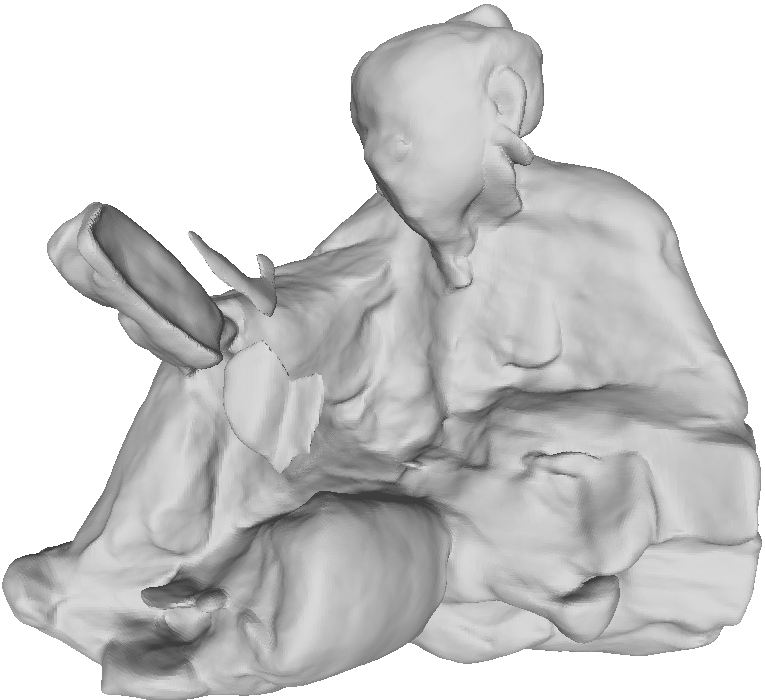
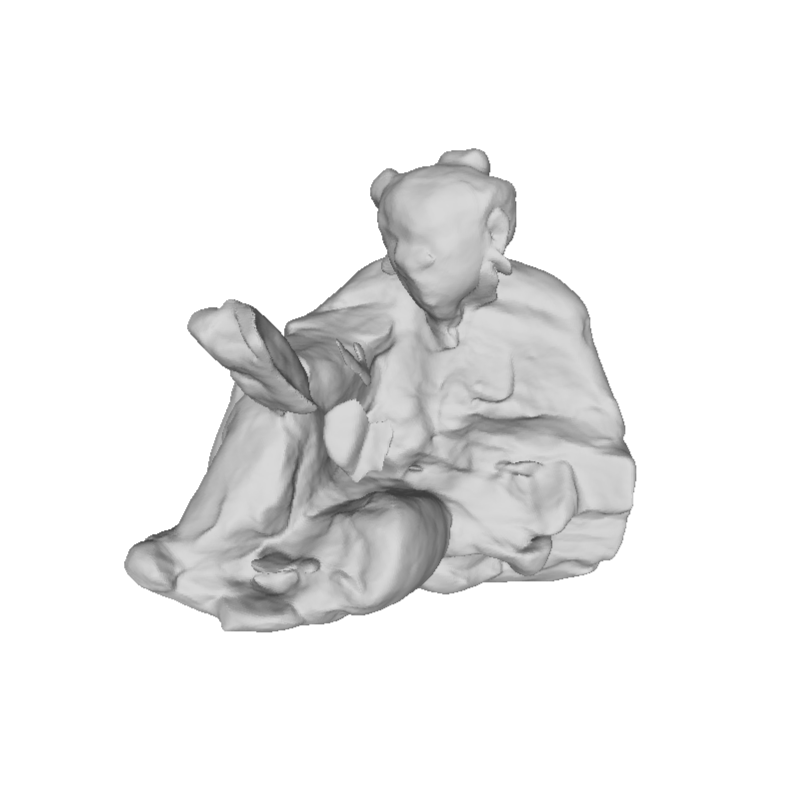
minor changes

diff --git a/index.html b/index.html
@@ -212,7 +212,7 @@ thin structures.
 
         <!-- Comparisons Images -->
         <!-- <hr style="border-top: 3px double;"> -->
-        <h6>Ours (mono-illumination) vs Neus (mono-illumination) vs RNb-NeuS (multi-illumination)</h6>
+        <h6>Ours (mono-illumination) vs Super Normal (multi-illumination) vs RNb-NeuS (multi-illumination)</h6>
         
         <!-- <div class="container;" style=" padding-bottom: 5px; font-size: 0;">
             <ul class="nav nav-tabs nav-fill nav-justified" style="font-size: 16px;" id="modelChoice">
@@ -291,7 +291,7 @@ thin structures.
         </ul>
             <div class="bordered-container">
             <div class="b-dics" style="width: 70%; font-weight: 600; margin: 0 auto;">
-                <img src="./assets/snnir/images/cmp_diff_views_methods/pot2/neus_2.png" alt="NeuS">
+                <img src="./assets/snnir/images/cmp_diff_views_methods/pot2/sn_2.png" alt="Super Normal">
                 <img src="./assets/snnir/images/cmp_diff_views_methods/pot2/ours_2.png" alt="Ours">
                 <img src="./assets/snnir/images/cmp_diff_views_methods/pot2/rnb_neus_2.png" alt="RNb-NeuS">
             </div>

diff --git a/js/event_handler.js b/js/event_handler.js
@@ -67,7 +67,7 @@ document.addEventListener('DOMContentLoaded', domReady);
                 }
                 switch (i) {
                     case 0:
-                        image.src = image.src + '/neus_';
+                        image.src = image.src + '/sn_';
                         break;
                     case 1:
                         image.src = image.src + '/ours_';
